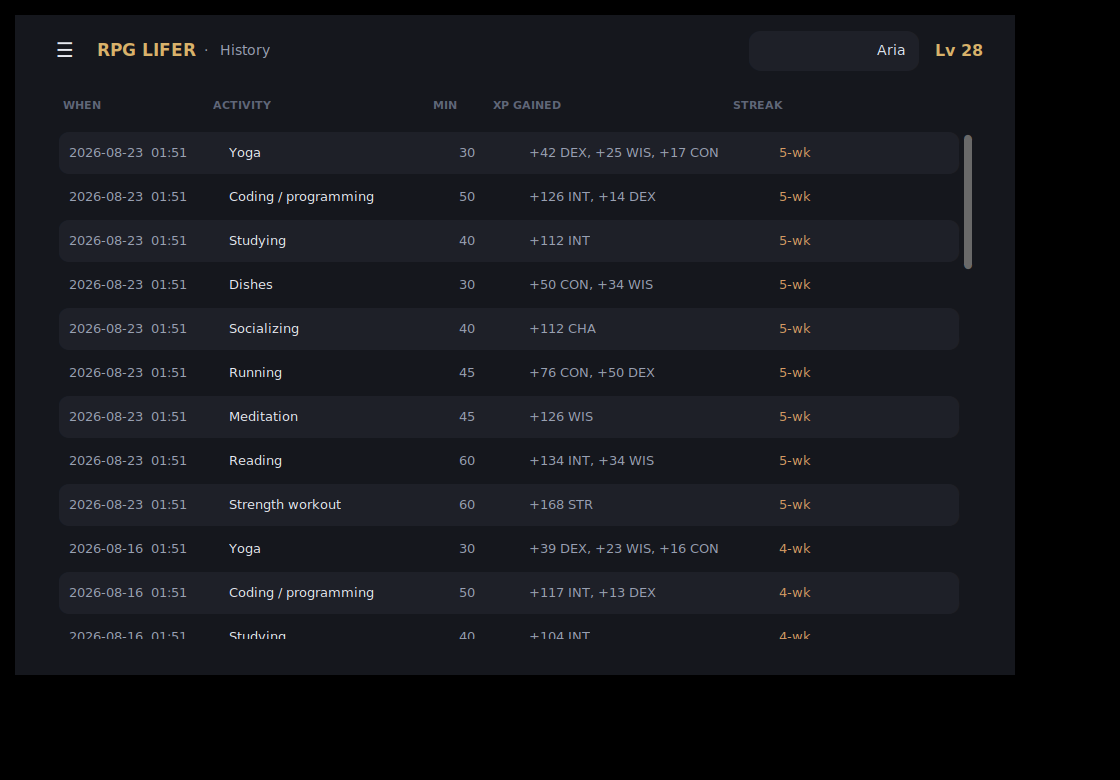
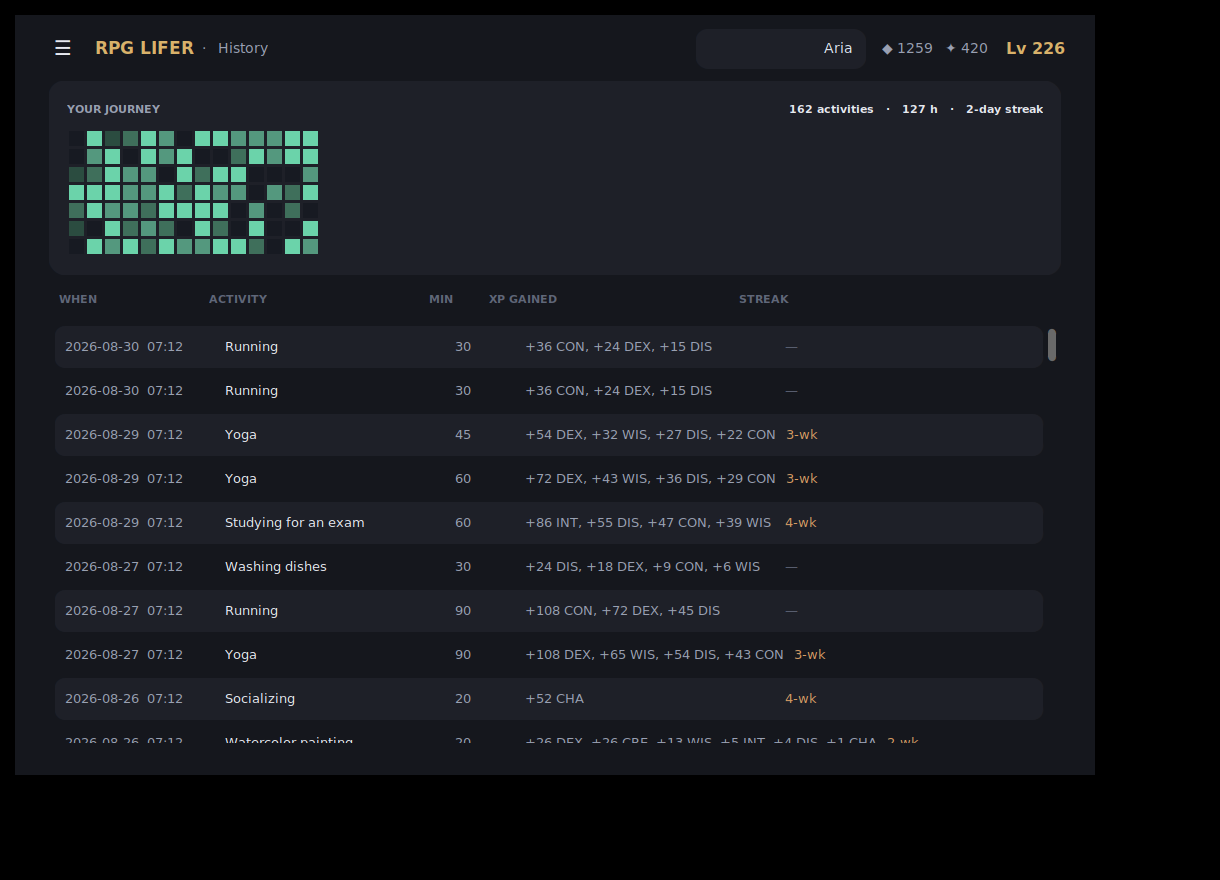
Iteration 17: journey heatmap on the History screen
Add a habit-tracker delight: a "Your Journey" card above the history table with
at-a-glance stats (total activities, total hours, current day-streak) and a
GitHub-style contribution heatmap — 14 weeks × 7 days, each cell shaded by the
minutes logged that day. Makes consistency visible at a glance.

UI-only (canvas heatmap + per-day aggregation). 110 tests passing; smoke-tested.

Claude-Session: https://claude.ai/code/session_01WsnuZ536J4UZdP5AajkuAF

diff --git a/rpglifer/ui_tk.py b/rpglifer/ui_tk.py
@@ -679,13 +679,33 @@ class ActivitiesView(ctk.CTkFrame):
 # ---------------------------------------------------------------------------
 # History
 # ---------------------------------------------------------------------------
+HEAT_COLORS = ["#171a22", "#2b4c40", "#3f6f5b", "#54987e", "#6bd3aa"]
+
+
 class HistoryView(ctk.CTkFrame):
+    WEEKS = 14
+
     def __init__(self, parent, app):
         super().__init__(parent, fg_color="transparent")
         self.app = app
         fonts = app.fonts
+
+        # Journey card: at-a-glance stats + a contribution heatmap.
+        card = ctk.CTkFrame(self, corner_radius=16, fg_color=SURFACE)
+        card.pack(fill="x", padx=8, pady=(6, 8))
+        top = ctk.CTkFrame(card, fg_color="transparent")
+        top.pack(fill="x", padx=18, pady=(14, 4))
+        ctk.CTkLabel(top, text="YOUR JOURNEY", text_color=MUTED,
+                     font=fonts["kicker"]).pack(side="left")
+        self.summary = ctk.CTkLabel(top, text="", text_color=TEXT,
+                                    font=fonts["kicker"])
+        self.summary.pack(side="right")
+        self.heat = tk.Canvas(card, height=7 * 18 + 4, bg=SURFACE,
+                              highlightthickness=0, bd=0)
+        self.heat.pack(fill="x", padx=18, pady=(2, 16))
+
         head = ctk.CTkFrame(self, fg_color="transparent")
-        head.pack(fill="x", padx=18, pady=(10, 2))
+        head.pack(fill="x", padx=18, pady=(2, 2))
         for text, w in [("WHEN", 150), ("ACTIVITY", 220), ("MIN", 60),
                         ("XP GAINED", 250)]:
             ctk.CTkLabel(head, text=text, text_color=FAINT, font=fonts["kicker"],
@@ -695,7 +715,51 @@ class HistoryView(ctk.CTkFrame):
         self.scroll = ctk.CTkScrollableFrame(self, fg_color="transparent")
         self.scroll.pack(fill="both", expand=True, padx=8, pady=(4, 8))
 
+    def _daily_minutes(self):
+        by_day: dict[str, float] = {}
+        for e in self.app.character.log:
+            day = e.when[:10]
+            by_day[day] = by_day.get(day, 0.0) + e.minutes
+        return by_day
+
+    def _draw_heat(self):
+        import datetime as _dt
+        c = self.heat
+        c.delete("all")
+        by_day = self._daily_minutes()
+        today = _dt.datetime.now(_dt.timezone.utc).date()
+        start = today - _dt.timedelta(days=today.weekday() + 7 * (self.WEEKS - 1))
+        cell, gap = 15, 3
+        step = cell + gap
+        for i in range(self.WEEKS * 7):
+            day = start + _dt.timedelta(days=i)
+            if day > today:
+                break
+            col, rowd = i // 7, i % 7
+            x, y = 2 + col * step, 2 + rowd * step
+            mins = by_day.get(day.isoformat(), 0)
+            b = (0 if mins <= 0 else 1 if mins <= 20 else 2 if mins <= 45
+                 else 3 if mins <= 90 else 4)
+            round_rect(c, x, y, x + cell, y + cell, 3, fill=HEAT_COLORS[b], outline="")
+
+    def _current_streak_days(self):
+        import datetime as _dt
+        days = {e.when[:10] for e in self.app.character.log}
+        d = _dt.datetime.now(_dt.timezone.utc).date()
+        streak = 0
+        while d.isoformat() in days:
+            streak += 1
+            d -= _dt.timedelta(days=1)
+        return streak
+
     def refresh(self):
+        c = self.app.character
+        total_min = sum(e.minutes for e in c.log)
+        streak = self._current_streak_days()
+        self.summary.configure(
+            text=f"{len(c.log)} activities   ·   {total_min/60:.0f} h   ·   "
+            f"{streak}-day streak")
+        self._draw_heat()
         for w in self.scroll.winfo_children():
             w.destroy()
         entries = list(reversed(self.app.character.log))[:200]

diff --git a/README.md b/README.md
@@ -224,8 +224,9 @@ combat/shop stats** and an **evolving class**, **consistency streaks**,
 (Hero + Overachiever), the **Arena** auto-battle (foe archetypes + **boss
 battles**) with **Gear/loot drops**, a working **Shop** of boosts, **daily
 quests** + a weekly challenge board,
-**achievement trophies**, **first-run onboarding**, **one-tap quick-log**, and a
-gamified GUI (level ring, XP bursts, mastery celebrations, hamburger nav).
+**achievement trophies**, **first-run onboarding**, **one-tap quick-log**, a
+**journey heatmap** of your consistency, and a gamified GUI (level ring, XP
+bursts, mastery celebrations, hamburger nav).
 
 Planned next:
 
